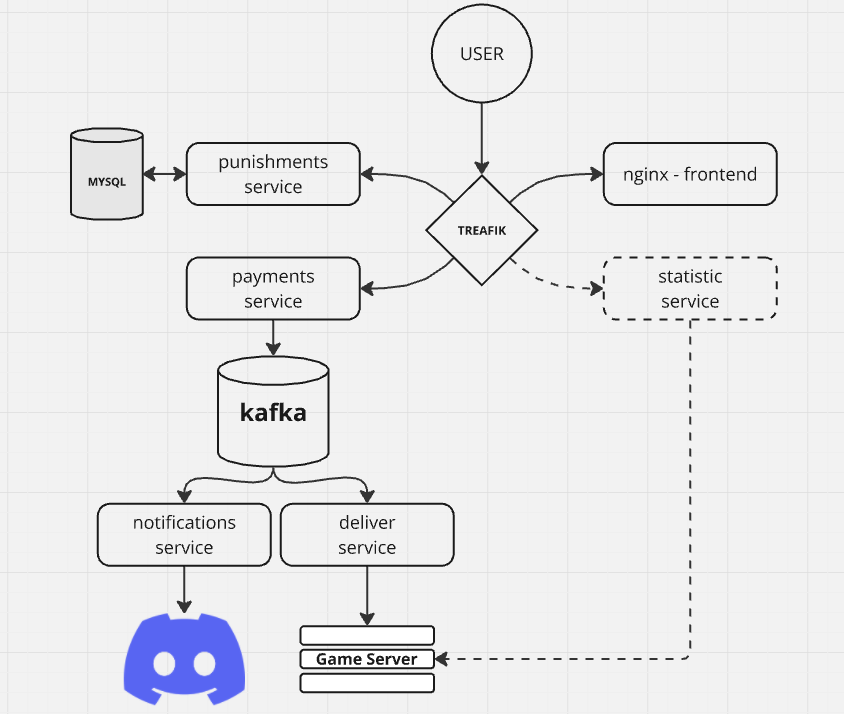
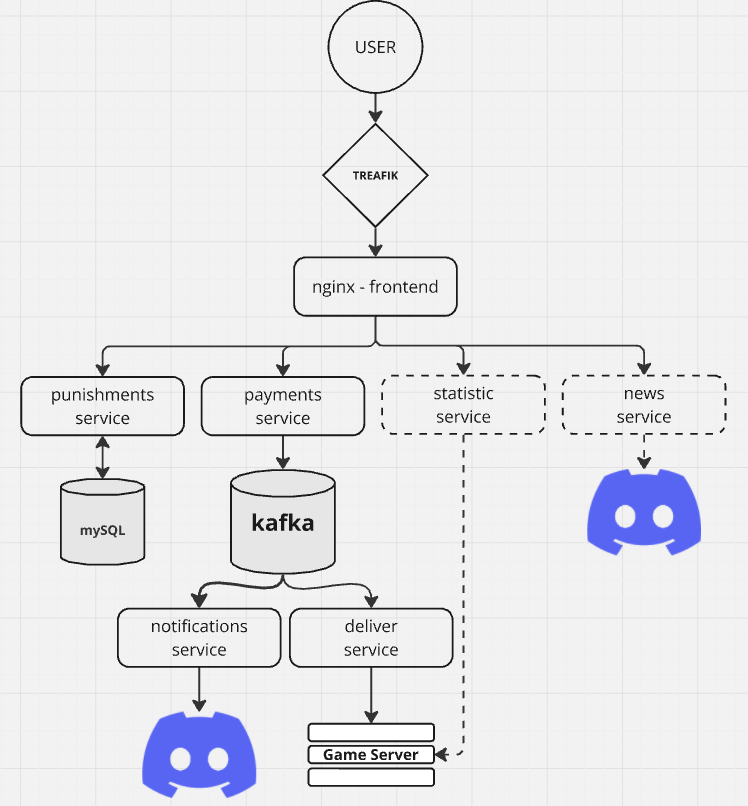
update design

diff --git a/api/news-service/cmd/main.go b/api/news-service/cmd/main.go
@@ -1,0 +1,5 @@
+package main
+
+func main() {
+
+}

diff --git a/api/news-service/internal/server/http/handlers/handlers.go b/api/news-service/internal/server/http/handlers/handlers.go
@@ -1,0 +1,5 @@
+package main
+
+func main() {
+
+}

diff --git a/api/news-service/internal/server/server.go b/api/news-service/internal/server/server.go
@@ -1,0 +1,5 @@
+package main
+
+func main() {
+
+}

diff --git a/api/news-service/pkg/constants/Errors.go b/api/news-service/pkg/constants/Errors.go
@@ -1,0 +1,1 @@
+package constants

diff --git a/api/news-service/pkg/constants/Logger.go b/api/news-service/pkg/constants/Logger.go
@@ -1,0 +1,1 @@
+package constants

diff --git a/api/news-service/init/config/config.go b/api/news-service/init/config/config.go
@@ -1,0 +1,1 @@
+package config

diff --git a/api/news-service/init/logger/HTTPLogger.go b/api/news-service/init/logger/HTTPLogger.go
@@ -1,0 +1,1 @@
+package logger

diff --git a/api/news-service/init/logger/logger.go b/api/news-service/init/logger/logger.go
@@ -1,0 +1,1 @@
+package logger

diff --git a/api/news-service/internal/server/http/routes/routes.go b/api/news-service/internal/server/http/routes/routes.go
@@ -1,0 +1,1 @@
+package routes
